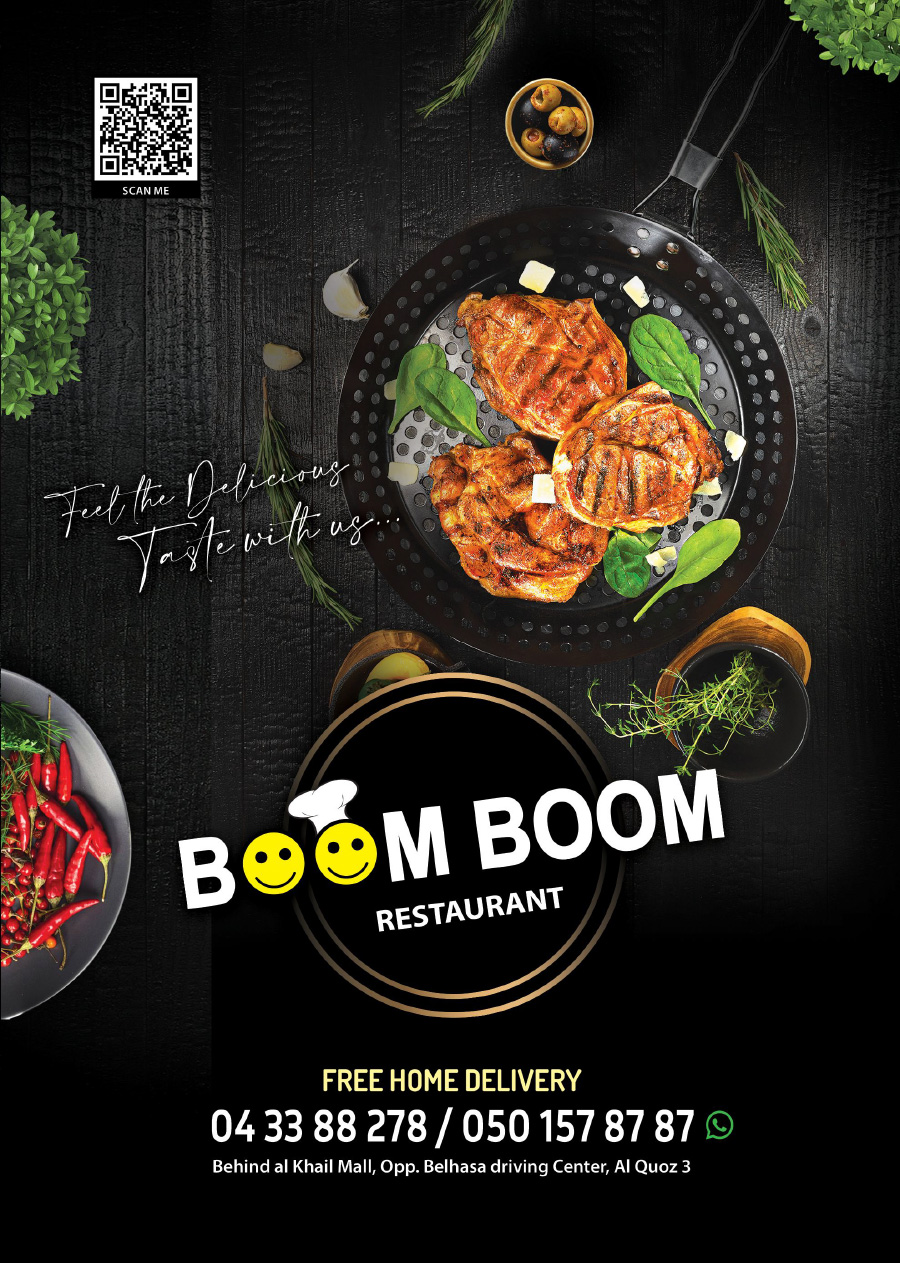
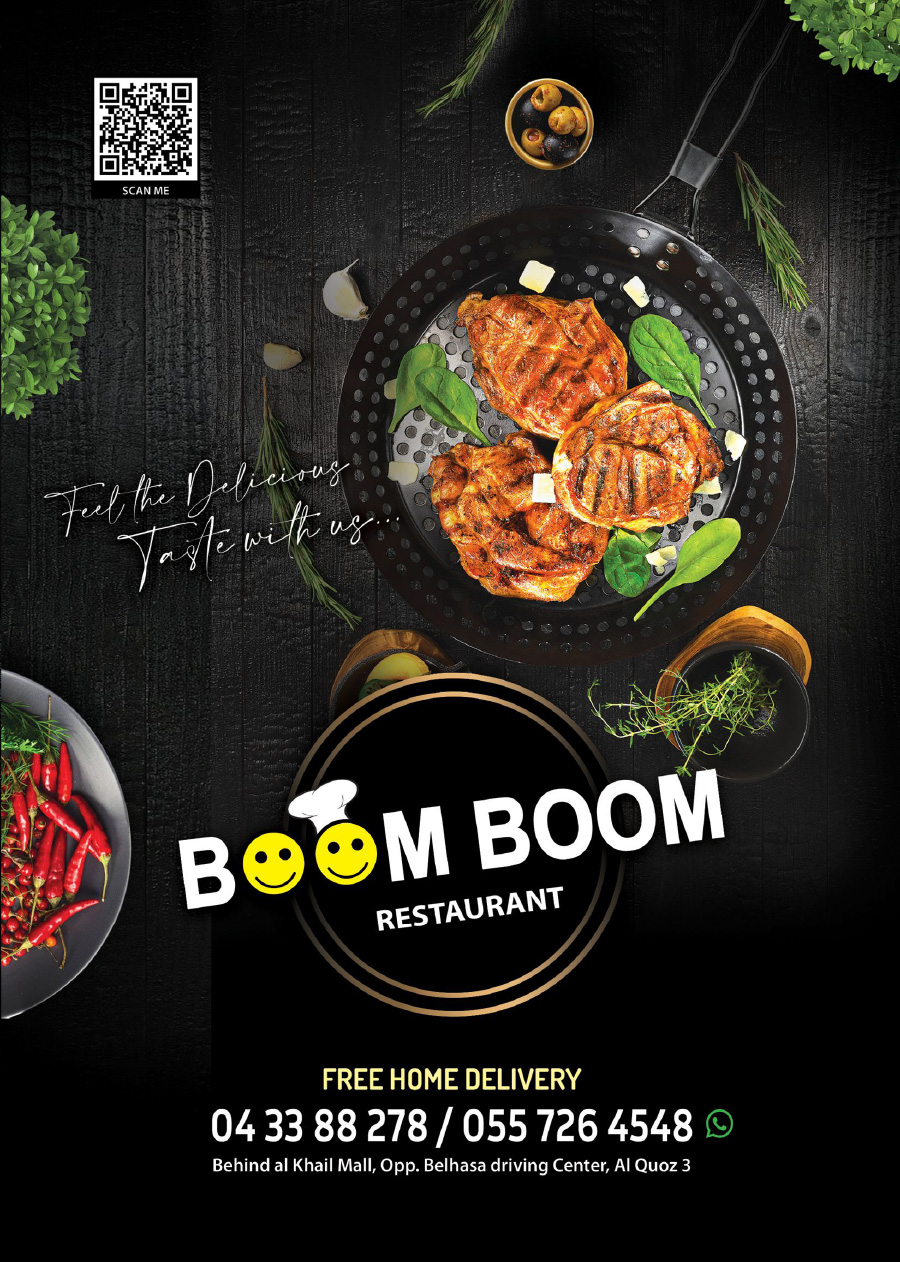
Add files via upload

diff --git a/m1/boomboomalquoz/index.html b/m1/boomboomalquoz/index.html
@@ -23,7 +23,7 @@
                     
                     <a target="_blank" href="https://goo.gl/maps/oU64Zxxhn3sj7t1E9"><i class="fa fa-map-marker" style="font-size:33px;color:rgb(252, 0, 0); margin:11px;margin-top: 5px;"></i></a>
                   
-                   <a target="_blank" href="https://api.whatsapp.com/send?phone=971501578787"><i class="fa fa-whatsapp" style="font-size:33px;color:rgb(0, 202, 67); margin:7px;margin-top: 3px;"></i></a>
+                   <a target="_blank" href="https://api.whatsapp.com/send?phone=971557264548"><i class="fa fa-whatsapp" style="font-size:33px;color:rgb(0, 202, 67); margin:7px;margin-top: 3px;"></i></a>
                    
                    <a target="_blank" href="tel://+97143388278"><i class="fa fa-phone" style="font-size:33px;color:rgb(59, 59, 59); margin:9px;margin-top: 5px;"></i></a>
                     
